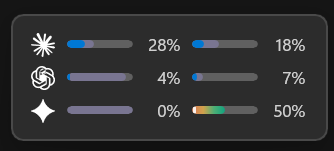
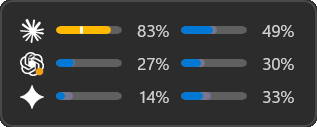
Docs: Refresh the README images and add reset animation GIFs from developer-mode scenarios
New dashboard shots (needs attention, all clear, limits reached), the graphs section,
the API credits panel in three states, the overlay, taskbar strip and Settings, plus two
reset animation GIFs (floating overlay and a dashboard card). All of them come from an
isolated preview running the app's developer-mode sample data, never real usage.

diff --git a/README.md b/README.md
@@ -19,9 +19,18 @@ Tell your AI coding agent: `Install CodexBarWin from https://github.com/Wave-OCE
 
 *Left: the tray flyout. Right: a provider's detail page (Gemini, showing Antigravity's separate Claude and GPT quota). Bottom: the taskbar strip.*
 
-![The dashboard](docs/images/dashboard.png)
+![The dashboard with a few things that need attention](docs/images/dashboard.png)
 
-*The dashboard in its earlier layout, with headline tiles and a usage overview. The current layout (a needs-attention summary, one panel per provider and a graphs section) is described under [The dashboard](#the-dashboard).*
+*The dashboard, described under [The dashboard](#the-dashboard): a needs-attention summary, one panel per provider and a graphs section. Here Claude's session is running ahead of pace, Codex has a service incident and the API credits are running low. Every screenshot and animation in this README uses the app's developer-mode sample data, not real usage.*
+
+| All clear | Limits reached |
+|:---:|:---:|
+| ![The dashboard when everything is fine](docs/images/dashboard-all-clear.png) | ![The dashboard with limits reached, an outage and API credits over budget](docs/images/dashboard-limits.png) |
+| Everything is comfortably low, so the toolbar says **All clear**. | Limits reached, a service outage and API credits over budget. |
+
+When a limit resets, its bar plays a short animation (see [Reset animation](#reset-animation)). Here it is on the floating overlay:
+
+![A reset animation on the floating overlay](docs/images/reset-overlay.gif)
 
 ## Contents
 
@@ -147,6 +156,8 @@ The packaged app keeps its settings across updates.
 
 ![Settings](docs/images/settings.png)
 
+*Settings at two scroll positions: Reset animation under Appearance, then Monthly API budget and Credit renewal day.*
+
 | Setting | What it does |
 |---------|--------------|
 | Providers | Choose which providers show, and their order. Each provider also has a **Show graphs** checkbox (on by default) for the dashboard's GRAPHS section. Changes apply immediately. |
@@ -197,7 +208,12 @@ When a usage window resets, its bar plays a short green animation: a ring draws 
 
 - The **Reset animation** setting is **Always on**, **Always off** or **Off in battery saver** (the default).
 - It is skipped when Windows animations are turned off.
-- A reset detected while the PC is locked plays once, on each bar, after you unlock (or resume from sleep to the desktop), because it would be missed on the lock screen.
+- A reset detected while the PC is locked plays once, on each bar, after you unlock (or resume from sleep to the desktop), because it would be missed on the lock screen. The taskbar strip and the overlay also hold a reset while the display is off or a fullscreen app hides them, and start it one second after they are back on screen so the beginning is not missed. A reset that happens while they are on screen plays at once.
+
+| Floating overlay | Dashboard card |
+|:---:|:---:|
+| ![A reset animation on the floating overlay](docs/images/reset-overlay.gif) | ![A reset animation on a dashboard card](docs/images/reset-dashboard.gif) |
+| Claude's session limit resets: the ring draws, the full bar turns green and collapses, a glow sweeps across. | The same animation on the dashboard's Claude panel (the "At limit" badge clears as the data refreshes). |
 
 ## The dashboard
 
@@ -212,6 +228,10 @@ From top to bottom:
 | **GRAPHS** | Below the panels: one card per provider with a compact burndown chart for each usage window (usage against an even-use guide, with a projection) and a 30-day daily cost chart. The toggle buttons in the section header hide or show a provider's charts; the choice is the same **Show graphs** option as in Settings. |
 | **Diagnostics** | A collapsible section at the bottom (collapsed by default, with a one-line summary in its header), also in full screen: CLI and app versions, the effective settings, the history store, cost scans, and this session's refresh log and alerts. |
 
+![The GRAPHS section and the collapsed Diagnostics section](docs/images/dashboard-graphs.png)
+
+*The GRAPHS section: usage against an even-use guide, with a dashed projection from the observed rate. Claude's session, at 83% and running ahead of the guide, is drawn in amber.*
+
 Refreshes only redraw what changed, so scrolling stays smooth while data loads.
 
 ### API credits
@@ -225,6 +245,10 @@ Setup:
 3. In **Settings**, set **Monthly API budget (USD)** and **Credit renewal day** (UTC).
 
 What it shows: the amount spent so far this cycle and the budget, what is left (or how far over budget you are), a bar with a tick for how far through the cycle you are, the renewal date and days left, and the daily spend that would use up the rest of the budget by then (shown as "to use it all"). When a breakdown is available, a **Used by** list splits the spend by member, you first, with an "Other / not attributable" line for charges that cannot be assigned. The **Billing** link opens the Claude Platform billing page. The tracker also adds an "API credits" entry to NEEDS ATTENTION when usage is at 75% or more of the budget (running low), at 90% or more (nearly used up), or over budget.
+
+![The API credits panel on track, running low and over budget](docs/images/api-credits.png)
+
+*The panel with plenty of budget left (top), running low at 75% or more (middle) and over budget (bottom).*
 
 How it behaves:
 
